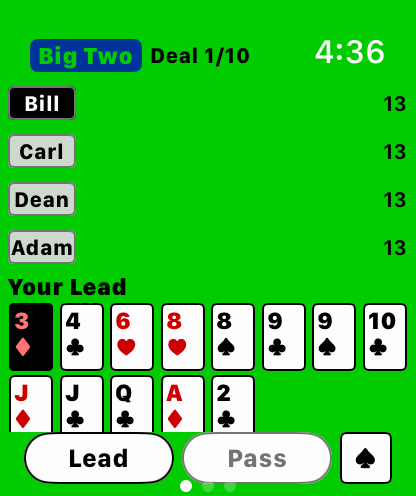
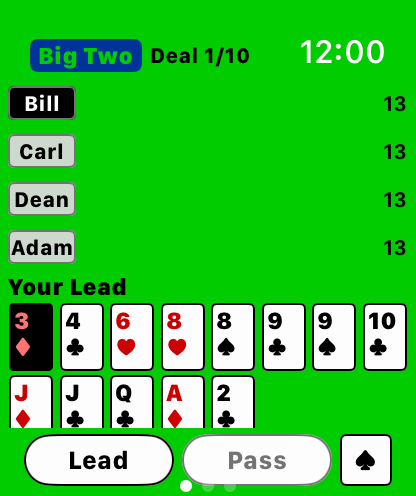
Pin the watch's button bar to the bottom edge on every size
The bar sat above a thick empty strip on an Apple Watch SE, and the band's
depth differs by watch size (26pt on a 40mm, 36pt on a 46mm) and by watchOS
version.

`.ignoresSafeArea(.container, edges: .bottom)` is a no-op on watchOS 11 —
measured at all four levels (the bar, the scroll view, the navigation stack,
the TabView), the reported inset never moved — and only began working in
watchOS 27. A negative padding of the measured depth does reach into the band
on both, unclipped, so the depth is read with a GeometryReader overlay and the
whole stack is pushed down by it.

`safeAreaInset` had to go with it: it reserves the height the bar was given,
not the part of it that ends up above the band, so the hand's last row came
back clipped on a 46mm. A plain VStack of scroll view + bar divides the space
correctly once the stack itself is the thing that sinks.

Also pins the scroll view to open at the top — reported from a real watch,
not reproducible on any simulator here.

Checked by hand on 40mm/watchOS 11, 40mm/watchOS 27, 42mm and 46mm;
BigTwoWatchUITests 8/8 on the 46mm.

Changed region(s): [[0.0312, 0.8468, 0.9375, 0.998], [0.7188, 0.0605, 0.9375, 0.1512], [0.0625, 0.9375, 0.0938, 0.9677]]

diff --git a/BigTwoWatch/Views/WatchGameView.swift b/BigTwoWatch/Views/WatchGameView.swift
@@ -14,8 +14,14 @@ struct WatchGameView: View {
   @ObservedObject var game: BigTwoGame
   @State private var selection: Set<Card> = []
   @State private var message: String?
+  /// How deep the band the system keeps at the bottom is on this watch — measured,
+  /// because it differs by watch size and by watchOS version. See `controls`.
+  @State private var bottomInset: CGFloat = 0
 
   private static let handCardHeight: CGFloat = 34
+  /// The pinned button bar: how tall it is, and how far its pills stay off the glass.
+  private static let barHeight: CGFloat = 32
+  private static let barLift: CGFloat = 2
 
   private var seat: Int { game.humanSeat ?? 1 }
   private var hand: [Card] {
@@ -33,40 +39,65 @@ struct WatchGameView: View {
     // The top bar only exists inside a navigation stack; it is what puts the title on
     // the clock's own row instead of costing a strip of the screen below it.
     NavigationStack { table }
+      // The one way to learn how deep that band is: an overlay is not laid out into it,
+      // but it does report it.
+      .overlay {
+        GeometryReader { geo in
+          Color.clear.onAppear { bottomInset = geo.safeAreaInsets.bottom }
+        }
+        .allowsHitTesting(false)
+      }
   }
 
   private var table: some View {
-    ScrollView {
-      VStack(spacing: 1) {
-        ForEach(rowOrder, id: \.self) { s in
-          WatchPlayerRowView(player: game.seats[s], action: game.lastActions[s],
-                             isTurn: game.turn == s && game.result == nil)
-        }
-        Text(verbatim: message ?? prompt)
-          .font(.palm(12, .heavy))
-          .foregroundColor(.ink)
-          .lineLimit(2)
-          .minimumScaleFactor(0.7)
-          .frame(maxWidth: .infinity, alignment: .leading)
-          .accessibilityIdentifier("prompt")
-        LazyVGrid(columns: columns, spacing: 2) {
-          ForEach(hand) { card in
-            WatchCardView(card: card, selected: selection.contains(card),
-                          height: Self.handCardHeight)
-              // ⚠ The two-tap gesture has to be attached *before* the one-tap one, or
-              // the single tap swallows the event and the double never fires.
-              .onTapGesture(count: 2) { selectSuitOrPair(card) }
-              .onTapGesture { toggle(card) }
-              .onLongPressGesture { selectAll(sameRankAs: card) }
-              .accessibilityIdentifier("hand_\(card.code)")
+    // A plain stack, not `safeAreaInset`: the whole thing is pushed down into the system's
+    // bottom band (see `bottomInset`), and an inset bar leaves the scroll view laid out
+    // over it — the hand's last row came back clipped.
+    VStack(spacing: 0) {
+      ScrollView {
+        VStack(spacing: 1) {
+          ForEach(rowOrder, id: \.self) { s in
+            WatchPlayerRowView(player: game.seats[s], action: game.lastActions[s],
+                               isTurn: game.turn == s && game.result == nil)
+          }
+          Text(verbatim: message ?? prompt)
+            .font(.palm(12, .heavy))
+            .foregroundColor(.ink)
+            .lineLimit(2)
+            .minimumScaleFactor(0.7)
+            .frame(maxWidth: .infinity, alignment: .leading)
+            .accessibilityIdentifier("prompt")
+          LazyVGrid(columns: columns, spacing: 2) {
+            ForEach(hand) { card in
+              WatchCardView(card: card, selected: selection.contains(card),
+                            height: Self.handCardHeight)
+                // ⚠ The two-tap gesture has to be attached *before* the one-tap one, or
+                // the single tap swallows the event and the double never fires.
+                .onTapGesture(count: 2) { selectSuitOrPair(card) }
+                .onTapGesture { toggle(card) }
+                .onLongPressGesture { selectAll(sameRankAs: card) }
+                .accessibilityIdentifier("hand_\(card.code)")
+            }
           }
         }
+        .padding(.horizontal, 2)
+        // The navigation bar reserves a band under the clock that nothing draws in. Taking
+        // it back is what keeps the whole hand on one screen once the played cards grew.
+        .padding(.top, -22)
       }
-      .padding(.horizontal, 2)
-      // The navigation bar reserves a band under the clock that nothing draws in. Taking
-      // it back is what keeps the whole hand on one screen once the played cards grew.
-      .padding(.top, -22)
+      // Open at the top. Reported from a real watch: the table came up already scrolled,
+      // with the first player rows above the fold. Not reproducible on any simulator here
+      // (40mm/46mm, watchOS 11 and 27), so this pins what the simulators do by default.
+      .defaultScrollAnchor(.top)
+      controls
     }
+    // The system keeps a deep band at the bottom for the curved glass — 26pt on a 40mm,
+    // 36pt on a 46mm. Left alone it is an empty strip under the buttons and costs the
+    // hand a row. ⚠ `.ignoresSafeArea` does not take it back: on watchOS 11 the modifier
+    // is a no-op there at every level (the bar, the scroll view, the navigation stack,
+    // the TabView — all four measured), and it only began working in watchOS 27. A
+    // negative padding of the measured depth reaches into it on both, unclipped.
+    .padding(.bottom, -max(bottomInset - Self.barLift, 0))
     .toolbar {
       ToolbarItem(placement: .topBarLeading) {
         WatchTitleBarView(deal: game.deal, dealsPerGame: game.rules.dealsPerGame)
@@ -75,8 +106,6 @@ struct WatchGameView: View {
           .offset(y: -8)
       }
     }
-    // The buttons stay put while 13 cards scroll, so a turn is never missed scrolling back.
-    .safeAreaInset(edge: .bottom, spacing: 0) { controls }
     .background(Color.felt.ignoresSafeArea())
     .onChange(of: game.seats[seat].hand) { _ in
       selection = []
@@ -116,20 +145,14 @@ struct WatchGameView: View {
       .accessibilityLabel(L10n.string(game.preferences.sortBySuit ? "Sort by rank" : "Sort by suit"))
       .accessibilityIdentifier("button_sort")
     }
-    // Wider side margins and a little lift than the rest of the screen uses: this bar
-    // now sits in the curved glass, where the rounded corners bite into the corners of a
-    // full-width pill.
+    // Wider side margins than the rest of the screen uses: this bar sits in the curved
+    // glass, where the rounded corners bite into the corners of a full-width pill.
     .padding(.horizontal, 10)
-    .padding(.bottom, 6)
     .frame(maxWidth: .infinity)
-    .frame(height: 32)
-    // The bar sits over the scroll view; without an opaque fill the hand scrolls through
-    // it and the buttons read as ghosts.
+    .frame(height: Self.barHeight)
+    // The bar reaches below the scroll view into the band; without an opaque fill the
+    // felt behind it is a different shade and the strip reads as a seam.
     .background(Color.felt)
-    // A watch reserves a deep bottom safe area for the curved glass. Keeping out of it
-    // left a thick empty band under the buttons and cost the hand a row, so the bar
-    // takes it back — the pills are still well inside the rounded corners.
-    .ignoresSafeArea(.container, edges: .bottom)
   }
 
   private var prompt: String {

diff --git a/docs/test_runs.md b/docs/test_runs.md
@@ -74,3 +74,4 @@ evidence that a test can fail; they stay in the log.
 - 2026-09-30 — watch-app: double tap / long press / Apple's Double Tap on the watch, and phone↔watch preference sync. BigTwoKit ✓ 72/72 · iOS ✓ 15/15 · `BigTwoWatchUITests` ✓ 8/8 (three new gesture tests). Deliberate break: the two-tap handler removed → `testDoubleTapTakesTheSuitWhenItIsLong` failed with "expected 6 selected, got 0"; restored → ✓. ⚠ The sync itself is **not** covered by a test — it needs a paired phone and watch, and the simulator pair cannot be driven from one xcodebuild run
 - 2026-09-30 — CI fix: the Xcode Cloud ad-hoc export failed with exit 70 on `watch-app` only. Root cause found by listing the developer portal's App IDs — `com.billchan.BigTwo.watchkitapp` had never been registered. Created it as "Big Two Watch" and read the listing back. No repo change could have fixed this
 - 2026-09-30 — watch-app: Preferences and About added as pages of a three-page TabView. `BigTwoWatchUITests` ✓ 8/8, tour extended to five shots. The tour first failed with "the Preferences page never came up" — the swipe had worked; the identifier is on a Button and the query asked for a staticText
+- 2026-10-01 — watch-app: the button bar pinned to the bottom edge on every watch size. `BigTwoWatchUITests` ✓ 8/8 (Series 12 46mm, watchOS 27); the same build checked by hand on 40mm/watchOS 11, 40mm/watchOS 27, 42mm and 46mm/watchOS 27. ⚠ The bug only shows on **watchOS 11**: `.ignoresSafeArea(.container, edges: .bottom)` is a no-op there — measured at all four levels (the bar, the scroll view, the navigation stack, the TabView) — and left a 26pt empty strip under the buttons on a 40mm. A negative padding of the band's measured depth does reach into it on both versions. `safeAreaInset` had to go too: it reserves the height the bar was *given*, not the part that ends up above the band, so the hand's last row came back clipped on a 46mm

diff --git a/docs/pr_learnings.md b/docs/pr_learnings.md
@@ -13,6 +13,28 @@ and the evidence.
 
 ---
 
+## watch-app — 底部按鈕列貼齊螢幕邊
+
+**`.ignoresSafeArea(.container, edges: .bottom)` 在 watchOS 11 完全無效。** 在 SE 40mm /
+watchOS 11 上，按鈕列下面留了一條 26pt 的空白；同一份 code 在 watchOS 27 上卻貼齊底邊。
+四個層級都試過、都量過——按鈕列本身、`ScrollView`、`NavigationStack`、`TabView`——
+`GeometryReader` 回報的 `safeAreaInsets.bottom` 一直是 26，版面一點都沒動。
+真正會動的是**負的 `padding(.bottom:)`**，而且不會被裁掉；兩個版本都一樣。所以深度用
+`GeometryReader` 量出來存進 `@State`，再用 `-(inset - lift)` 把整列推進去。
+40mm 是 26pt，46mm 是 36pt——寫死一個數字兩邊都不對。
+
+**`safeAreaInset` 也要一起拿掉。** 它保留的是 inset view **被給定**的高度，不是它最後
+露在那條帶子上面的部分；把按鈕列往下推之後，46mm 上手牌最後一排的下緣就被蓋住了。
+改成 `VStack { ScrollView; controls }`，再把整個 `VStack` 往下推，分配就自己對了。
+中間試過 `ZStack(alignment: .bottom)` 加一個算好的 content padding——沒用，`ScrollView`
+的內容本來就會鋪到帶子裡，加 padding 只是把可捲動的長度拉長而已。
+
+**在真機上回報的 bug，要在 simulator 上重現先要挑對 runtime。** 這次四台都試了
+(40mm/watchOS 11、40mm/watchOS 27、42mm、46mm)，只有 watchOS 11 那台看得到。
+`xcrun simctl create` 自己開一台舊 runtime 的手錶，比猜版本快得多。
+
+---
+
 ## watch-app — Apple Watch 版，用一個 IAP 解鎖
 
 **手錶版幾乎是免費的，因為 kit 早就乾淨。** `BigTwoKit` 只 import Foundation，
